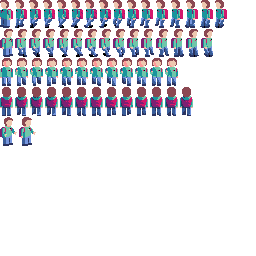
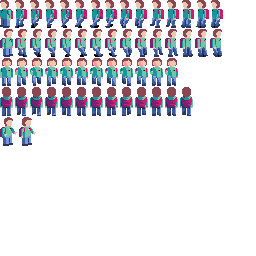
Fix: Allign frames to grid in personage_design file
Also added some basic functions in game.py for animation

Changed region(s): [[0.0938, 0.0, 0.9062, 0.25]]

diff --git a/game.py b/game.py
@@ -19,37 +19,50 @@ class Personage():
         self.width: int = 13
         self.height: int = 27
         self.direction = 'down'
+        self.moving = False
+        self.skins_data = {'up': {'v': 88, 'animation_start_u': 15, 'animation_end_u': 180},
+                           'right': {'v': 29, 'animation_start_u': 15, 'animation_end_u': 185},
+                           'down': {'v': 58, 'animation_start_u': 15, 'animation_end_u': 165},
+                           'left': {'v': 0,  'animation_start_u': 15, 'animation_end_u': 186}}
 
-    def set_direction(self):
+    def set_direction(self, direction: str) -> None:
         """
-        changes u coordinate to select right skin in editor
-        coordinate v corresponds to direction
+        Changes v coordinate to select right skin in editor
 
         """
+        self.direction = direction
+        self.v = self.skins_data[self.direction]['v']
 
-        if self.direction == "left":
-            # self.width = self.frames_info['horizontal']['width']
-            self.v = 0
-        elif self.direction == "right":
-            # self.width = self.frames_info['horizontal']['width']
-            self.v = 28
-        elif self.direction == "front":
-            # self.width = self.frames_info['vertical']['width']
-            self.v = 56
-        elif self.direction == "back":
-            # self.width = self.frames_info['vertical']['width']
-            self.v = 84
+    def moving_animation(self) -> None:
+        """
+        Each time called changes skin
+        ? must be called from update() while moving
+        """
+        if not(self.moving):
+            self.moving = True
+            self.u = self.skins_data[self.direction]['animation_start_u']
+        elif self.u >= self.skins_data[self.direction]['animation_end_u']:
+            self.u = self.skins_data[self.direction]['animation_start_u']
+        else:
+            # 2 is offset between two separate frames in pyxel editor
+            self.u = self.u + self.width+2
 
     def update(self):
+        # ! just to verify result, will be delited
+        if pyxel.btn(pyxel.KEY_R):
+            self.set_direction('right')
+            self.moving_animation()
         pass
 
     def draw(self):
-        pyxel.blt(self.x, self.y, 1, self.u, self.v, self.width, self.height)
+        # ? last arg: "7" because white is background color
+        # ! third arg: "1" because personage frames are stored in 1 image bank, (right bottom corner of pyxel image editor)
+        pyxel.blt(self.x, self.y, 1, self.u, self.v, self.width, self.height, 7)
 
 
 class App:
     def __init__(self):
-        pyxel.init(SIZE, SIZE, fps=10)
+        pyxel.init(SIZE, SIZE, fps=12)
         pyxel.load('my_resource.pyxres')
 
         self.personage = Personage()

diff --git a/additional_readme.md b/additional_readme.md
@@ -21,7 +21,7 @@ ____
 ____
 
 ## Useful VSC extensions
-
+- Better Comments
 - Code Spell Checker
 - Visual Studio IntelliCode
 - TODO Highlight
